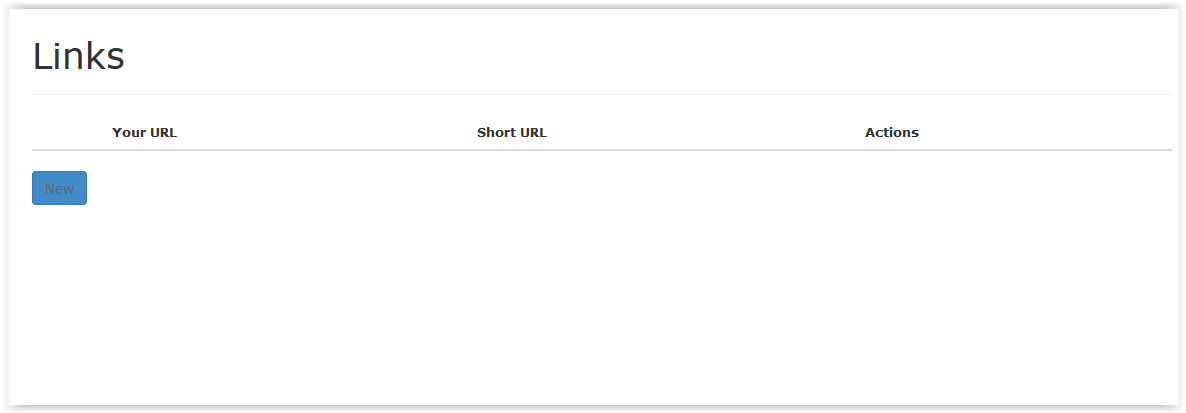
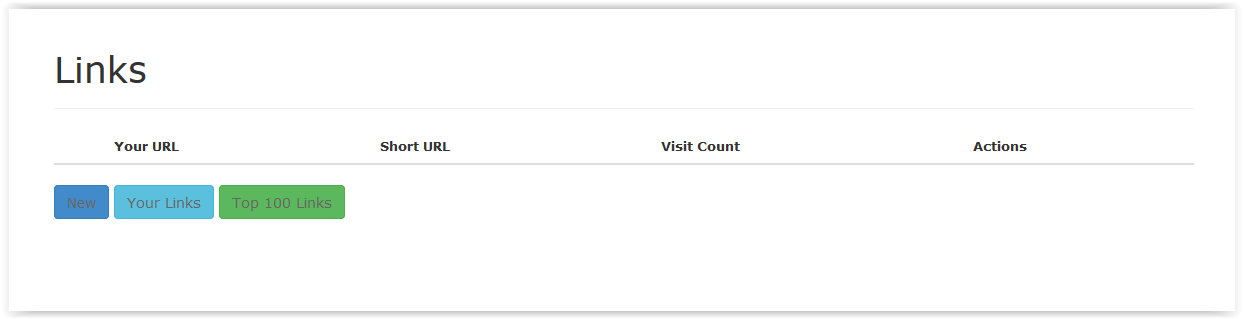
update how to use doc

diff --git a/doc/how-to-use.md b/doc/how-to-use.md
@@ -10,3 +10,11 @@
     ![3](3.PNG) 
     
 * In this way you can add multiple urls and generate short url for it.
+
+#### Top 100 Links:
+* Click on ***"Top 100 Links"*** button at the bottom. You can see the Top 100 most visited urls with their visit count in descending order.
+    ![4](4.PNG)
+    
+#### URLs added by user in current session:
+* To see the list of urls added by user in current session, Click on ***"Your Links"*** button. It will show as bellow:
+    ![5](5.PNG)
